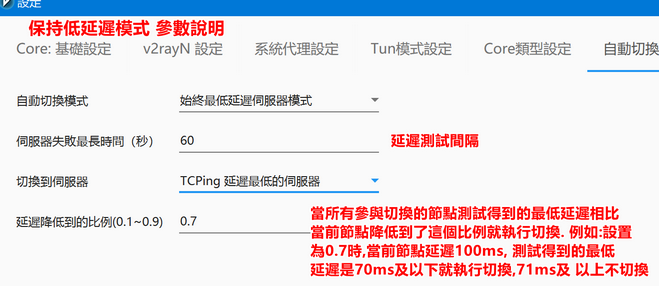
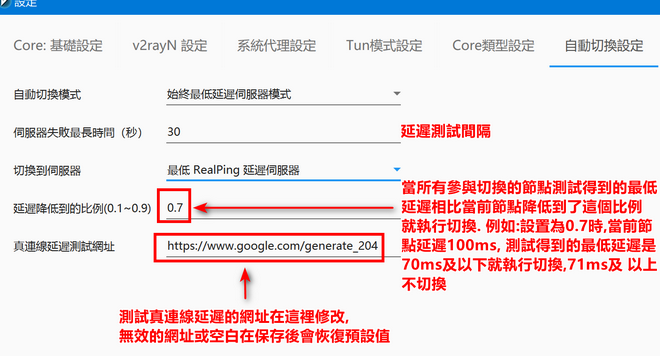
add speedPingTestUrl to setting ui

diff --git a/v2rayN/v2rayN/Views/OptionSettingWindow.xaml b/v2rayN/v2rayN/Views/OptionSettingWindow.xaml
@@ -1036,7 +1036,7 @@ Text="{x:Static resx:ResUI.TbSettingsAutoSwitchMainMode}" />
 x:Name="cmbAutoSwitchMainMode"
 Grid.Row="0"
 Grid.Column="1"
-Width="200"
+Width="250"
 Margin="{StaticResource SettingItemMargin}"
 IsEditable="True"
 Style="{StaticResource DefComboBox}" />
@@ -1052,7 +1052,7 @@ Style="{StaticResource DefComboBox}" />
     x:Name="txtFailTimeMax"
     Grid.Row="1"
     Grid.Column="1"
-    Width="200"
+    Width="250"
     Margin="{StaticResource SettingItemMargin}"
     Style="{StaticResource DefTextBox}" />
 
@@ -1067,7 +1067,7 @@ Style="{StaticResource DefComboBox}" />
     x:Name="cmbServerSelectMode"
     Grid.Row="2"
     Grid.Column="1"
-    Width="200"
+    Width="250"
     Margin="{StaticResource SettingItemMargin}"
     materialDesign:HintAssist.Hint="Level"
     Style="{StaticResource DefComboBox}" />
@@ -1084,7 +1084,7 @@ Style="{StaticResource DefComboBox}" />
     x:Name="cmbMainServer"
     Grid.Row="3"
     Grid.Column="1"
-    Width="200"
+    Width="250"
     Margin="{StaticResource SettingItemMargin}"
     materialDesign:HintAssist.Hint=""
     Style="{StaticResource DefComboBox}" >
@@ -1109,7 +1109,22 @@ Style="{StaticResource DefComboBox}" />
     x:Name="TxtLatencyLowerRatio"
     Grid.Row="4"
     Grid.Column="1"
-    Width="200"
+    Width="250"
+    Margin="{StaticResource SettingItemMargin}"
+    Style="{StaticResource DefTextBox}" />
+                    <TextBlock
+    x:Name="TxtSpeedPingTestUrlTitle"
+    Grid.Row="5"
+    Grid.Column="0"
+    Margin="{StaticResource SettingItemMargin}"
+    VerticalAlignment="Center"
+    Style="{StaticResource ToolbarTextBlock}"
+    Text="{x:Static resx:ResUI.TbSettingsSpeedPingTestUrl}" />
+                    <TextBox
+    x:Name="TxtSpeedPingTestUrl"
+    Grid.Row="5"
+    Grid.Column="1"
+    Width="250"
     Margin="{StaticResource SettingItemMargin}"
     Style="{StaticResource DefTextBox}" />
                 </Grid>

diff --git a/v2rayN/v2rayN/ViewModels/OptionSettingViewModel.cs b/v2rayN/v2rayN/ViewModels/OptionSettingViewModel.cs
@@ -8,6 +8,7 @@ using System.Windows;
 using v2rayN.Handler;
 using v2rayN.Mode;
 using v2rayN.Resx;
+using System.Text.RegularExpressions;
 
 namespace v2rayN.ViewModels
 {
@@ -105,6 +106,7 @@ namespace v2rayN.ViewModels
         [Reactive] public int AutoSwitchMode { get; set; }
         [Reactive] public int FailTimeMax { get; set; }
         [Reactive] public double LatencyLowerRatio { get; set; }
+        [Reactive] public string speedPingTestUrl { get; set; }
 
         public ReactiveCommand<Unit, Unit> SaveCmd { get; }
 
@@ -195,6 +197,7 @@ namespace v2rayN.ViewModels
             AutoSwitchMode = _config.autoSwitchItem.mode;
             ServerSelectMode = _config.autoSwitchItem.ServerSelectMode;
             LatencyLowerRatio= _config.autoSwitchItem.LatencyLowerRatio;
+            speedPingTestUrl = _config.speedTestItem.speedPingTestUrl;
 
             var listprofile = LazyConfig.Instance.ProfileItemsAutoSwitch();
 
@@ -369,6 +372,11 @@ namespace v2rayN.ViewModels
             _config.autoSwitchItem.ServerSelectMode=ServerSelectMode;
             _config.autoSwitchItem.FailTimeMax = FailTimeMax;
             _config.autoSwitchItem.LatencyLowerRatio = LatencyLowerRatio;
+
+            speedPingTestUrl= speedPingTestUrl.Trim();
+            if (!Regex.IsMatch(speedPingTestUrl, "^(https?|ftp|file)://[-A-Za-z0-9+&@#/%?=~_|!:,.;]+[-A-Za-z0-9+&@#/%=~_|]"))
+                speedPingTestUrl = "https://www.google.com/generate_204";
+            _config.speedTestItem.speedPingTestUrl = speedPingTestUrl;
 
             foreach (var item in MainServerItems)
             {

diff --git a/v2rayN/v2rayN/Views/OptionSettingWindow.xaml.cs b/v2rayN/v2rayN/Views/OptionSettingWindow.xaml.cs
@@ -208,6 +208,7 @@ namespace v2rayN.Views
                 this.Bind(ViewModel, vm => vm.ServerSelectMode, v => v.cmbServerSelectMode.SelectedIndex).DisposeWith(disposables);
                 this.Bind(ViewModel, vm => vm.FailTimeMax, v => v.txtFailTimeMax.Text).DisposeWith(disposables);
                 this.Bind(ViewModel, vm => vm.LatencyLowerRatio, v => v.TxtLatencyLowerRatio.Text).DisposeWith(disposables);
+                this.Bind(ViewModel, vm => vm.speedPingTestUrl, v => v.TxtSpeedPingTestUrl.Text).DisposeWith(disposables);
 
                 this.BindCommand(ViewModel, vm => vm.SaveCmd, v => v.btnSave).DisposeWith(disposables);
 
@@ -247,11 +248,15 @@ namespace v2rayN.Views
                 {
                     TxtLatencyLowerRatio.Visibility = Visibility.Visible;
                     TxtLatencyLowerRatioTitle.Visibility = Visibility.Visible;
+                    TxtSpeedPingTestUrlTitle.Visibility = Visibility.Visible;
+                    TxtSpeedPingTestUrl.Visibility = Visibility.Visible;
                 }
                 else
                 {
                     TxtLatencyLowerRatio.Visibility = Visibility.Collapsed;
                     TxtLatencyLowerRatioTitle.Visibility = Visibility.Collapsed;
+                    TxtSpeedPingTestUrlTitle.Visibility = Visibility.Collapsed;
+                    TxtSpeedPingTestUrl.Visibility = Visibility.Collapsed;
                 }
             }
         }

diff --git a/v2rayN/v2rayN/Resx/ResUI.Designer.cs b/v2rayN/v2rayN/Resx/ResUI.Designer.cs
@@ -2978,6 +2978,15 @@ namespace v2rayN.Resx {
         }
         
         /// <summary>
+        ///   查找类似 Real ping test URL 的本地化字符串。
+        /// </summary>
+        public static string TbSettingsSpeedPingTestUrl {
+            get {
+                return ResourceManager.GetString("TbSettingsSpeedPingTestUrl", resourceCulture);
+            }
+        }
+        
+        /// <summary>
         ///   查找类似 SpeedTest Single Timeout Value 的本地化字符串。
         /// </summary>
         public static string TbSettingsSpeedTestTimeout {
